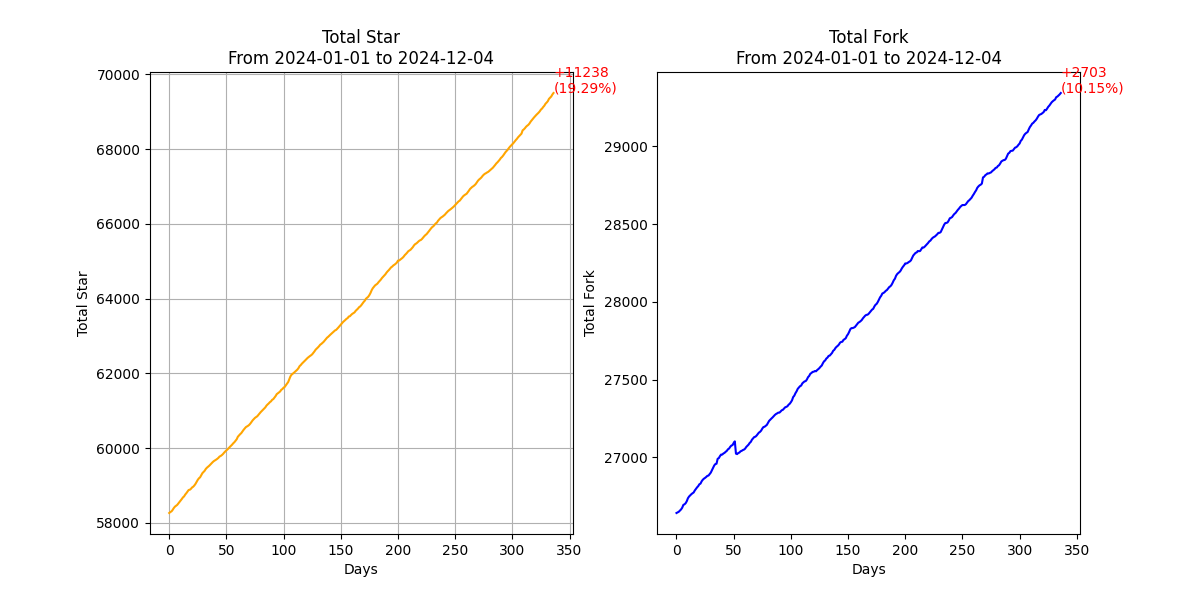
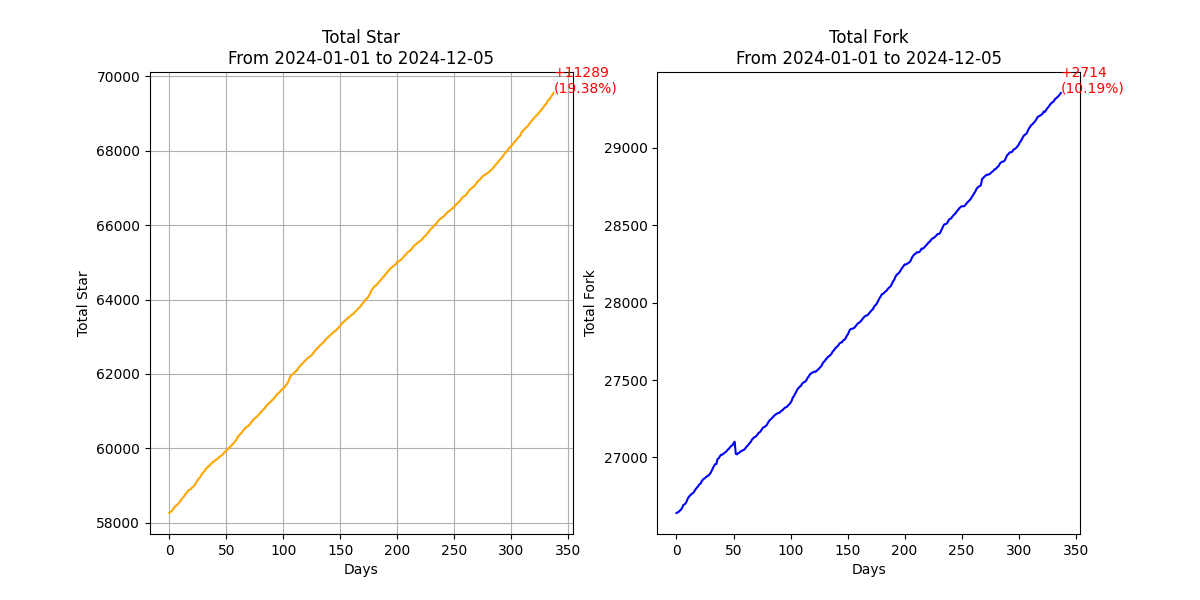
Update Espressif Systems Github Star Rank - 2024-12-05

diff --git a/rank_history/esp_rank_2024-12-04.md b/rank_history/esp_rank_2024-12-04.md
@@ -1,6 +1,6 @@
-# Espressif Systems Github Star Rank 2024-12-05
+# Espressif Systems Github Star Rank 2024-12-04
 
-## Total Star 🌟: 69605, Total Fork 🌳: 29365
+## Total Star 🌟: 69552, Total Fork 🌳: 29355
 
 [![Update Espressif Systems Github Star Rank](https://github.com/leeebo/espressif_star_counter/actions/workflows/update_rank.yml/badge.svg)](https://github.com/leeebo/espressif_star_counter/actions/workflows/update_rank.yml)
 
@@ -8,31 +8,31 @@
 
 | Repository | Stars | Forks | Description |
 |------------|-------|-------|-------------|
-| [esp-idf](https://github.com/espressif/esp-idf) | 13913 | 7332 | Espressif IoT Development Framework. Official development framework for Espressif SoCs. |
-| [arduino-esp32](https://github.com/espressif/arduino-esp32) | 13785 | 7442 | Arduino core for the ESP32 |
-| [esptool](https://github.com/espressif/esptool) | 5613 | 1387 | Espressif SoC serial bootloader utility |
-| [ESP8266_RTOS_SDK](https://github.com/espressif/ESP8266_RTOS_SDK) | 3349 | 1564 | Latest ESP8266 SDK based on FreeRTOS, esp-idf style. |
-| [esp-iot-solution](https://github.com/espressif/esp-iot-solution) | 2001 | 789 | Espressif IoT Library. IoT Device Drivers, Documentations and Solutions. |
-| [esp32-camera](https://github.com/espressif/esp32-camera) | 1953 | 648 | None |
-| [esp-who](https://github.com/espressif/esp-who) | 1712 | 469 | Face detection and recognition framework |
+| [esp-idf](https://github.com/espressif/esp-idf) | 13894 | 7328 | Espressif IoT Development Framework. Official development framework for Espressif SoCs. |
+| [arduino-esp32](https://github.com/espressif/arduino-esp32) | 13776 | 7441 | Arduino core for the ESP32 |
+| [esptool](https://github.com/espressif/esptool) | 5614 | 1387 | Espressif SoC serial bootloader utility |
+| [ESP8266_RTOS_SDK](https://github.com/espressif/ESP8266_RTOS_SDK) | 3348 | 1564 | Latest ESP8266 SDK based on FreeRTOS, esp-idf style. |
+| [esp-iot-solution](https://github.com/espressif/esp-iot-solution) | 1998 | 789 | Espressif IoT Library. IoT Device Drivers, Documentations and Solutions. |
+| [esp32-camera](https://github.com/espressif/esp32-camera) | 1952 | 648 | None |
+| [esp-who](https://github.com/espressif/esp-who) | 1708 | 469 | Face detection and recognition framework |
 | [esp-adf](https://github.com/espressif/esp-adf) | 1569 | 690 | Espressif Audio Development Framework |
-| [vscode-esp-idf-extension](https://github.com/espressif/vscode-esp-idf-extension) | 1083 | 307 | Visual Studio Code extension for ESP-IDF projects |
+| [vscode-esp-idf-extension](https://github.com/espressif/vscode-esp-idf-extension) | 1084 | 307 | Visual Studio Code extension for ESP-IDF projects |
 | [ESP8266_NONOS_SDK](https://github.com/espressif/ESP8266_NONOS_SDK) | 932 | 536 | ESP8266 nonOS SDK |
-| [esp-at](https://github.com/espressif/esp-at) | 920 | 835 | AT application for ESP32/ESP32-C2/ESP32-C3/ESP32-C6/ESP8266 |
+| [esp-at](https://github.com/espressif/esp-at) | 922 | 835 | AT application for ESP32/ESP32-C2/ESP32-C3/ESP32-C6/ESP8266 |
 | [esp-drone](https://github.com/espressif/esp-drone) | 841 | 243 | Mini Drone/Quadcopter Firmware for ESP32 and ESP32-S Series SoCs. |
 | [esp-box](https://github.com/espressif/esp-box) | 817 | 191 | The ESP-BOX is a new generation AIoT development platform released by Espressif Systems. |
-| [esp-mdf](https://github.com/espressif/esp-mdf) | 782 | 253 | Espressif Mesh Development Framework, limited maintain, recommend to use https://github.com/espressif/esp-mesh-lite |
+| [esp-mdf](https://github.com/espressif/esp-mdf) | 781 | 253 | Espressif Mesh Development Framework, limited maintain, recommend to use https://github.com/espressif/esp-mesh-lite |
 | [kicad-libraries](https://github.com/espressif/kicad-libraries) | 779 | 109 | KiCad libraries for Espressif SoCs, modules, and DevKits. |
 | [ESP8266_MP3_DECODER](https://github.com/espressif/ESP8266_MP3_DECODER) | 745 | 190 | A demo that should be run with ESP8266 Non-OS SDK |
-| [esp-csi](https://github.com/espressif/esp-csi) | 726 | 110 | Applications based on Wi-Fi CSI (Channel state information), such as indoor positioning, human detection |
+| [esp-csi](https://github.com/espressif/esp-csi) | 725 | 110 | Applications based on Wi-Fi CSI (Channel state information), such as indoor positioning, human detection |
 | [esp-hosted](https://github.com/espressif/esp-hosted) | 715 | 170 | Hosted Solution (Linux/MCU) with ESP32 (Wi-Fi + BT + BLE) |
-| [esp-matter](https://github.com/espressif/esp-matter) | 709 | 162 | Espressif's SDK for Matter |
+| [esp-matter](https://github.com/espressif/esp-matter) | 709 | 161 | Espressif's SDK for Matter |
 | [esp-apple-homekit-adk](https://github.com/espressif/esp-apple-homekit-adk) | 624 | 64 | This is a port for Apple's Open Source HomeKit ADK |
-| [esp-mqtt](https://github.com/espressif/esp-mqtt) | 617 | 258 | ESP32 mqtt component |
-| [esp-sr](https://github.com/espressif/esp-sr) | 594 | 107 | Speech recognition |
-| [esp-skainet](https://github.com/espressif/esp-skainet) | 593 | 135 | Espressif intelligent voice assistant |
+| [esp-mqtt](https://github.com/espressif/esp-mqtt) | 616 | 258 | ESP32 mqtt component |
+| [esp-sr](https://github.com/espressif/esp-sr) | 592 | 107 | Speech recognition |
+| [esp-skainet](https://github.com/espressif/esp-skainet) | 590 | 135 | Espressif intelligent voice assistant |
 | [esp-dl](https://github.com/espressif/esp-dl) | 582 | 123 | Espressif deep-learning library for AIoT applications |
-| [esp-homekit-sdk](https://github.com/espressif/esp-homekit-sdk) | 570 | 109 | None |
+| [esp-homekit-sdk](https://github.com/espressif/esp-homekit-sdk) | 569 | 109 | None |
 | [esp-now](https://github.com/espressif/esp-now) | 551 | 97 | A connectionless Wi-Fi communication protocol |
 | [esp32-nesemu](https://github.com/espressif/esp32-nesemu) | 551 | 173 | Proof-of-concept NES emulator for the ESP32 |
 | [esp-dsp](https://github.com/espressif/esp-dsp) | 490 | 92 | DSP library for ESP-IDF |
@@ -40,17 +40,17 @@
 | [esp-rainmaker](https://github.com/espressif/esp-rainmaker) | 470 | 154 | ESP RainMaker Agent for firmware development |
 | [rust-esp32-example](https://github.com/espressif/rust-esp32-example) | 448 | 36 | Example of Rust integration into an ESP-IDF project, for ESP32 series of chips |
 | [esp-tflite-micro](https://github.com/espressif/esp-tflite-micro) | 398 | 86 | TensorFlow Lite Micro for Espressif Chipsets |
-| [esp-serial-flasher](https://github.com/espressif/esp-serial-flasher) | 392 | 113 | Library for flashing Espressif SoCs from other MCUs. |
+| [esp-serial-flasher](https://github.com/espressif/esp-serial-flasher) | 391 | 113 | Library for flashing Espressif SoCs from other MCUs. |
 | [esp-dev-kits](https://github.com/espressif/esp-dev-kits) | 370 | 184 | Docs, Schematics, Factory Firmwares for ESP Development Kits |
 | [openocd-esp32](https://github.com/espressif/openocd-esp32) | 363 | 133 | OpenOCD branch with ESP32 JTAG support |
 | [esp-aliyun](https://github.com/espressif/esp-aliyun) | 341 | 151 | Aliyun Iotkit-embedded, support esp32 & esp8266. |
-| [esp-idf-template](https://github.com/espressif/esp-idf-template) | 335 | 201 | Template application for https://github.com/espressif/esp-idf |
+| [esp-idf-template](https://github.com/espressif/esp-idf-template) | 335 | 200 | Template application for https://github.com/espressif/esp-idf |
 | [idf-eclipse-plugin](https://github.com/espressif/idf-eclipse-plugin) | 315 | 121 | Espressif-IDE (ESP-IDF Eclipse Plugin) for ESP-IDF CMake based projects 5.x and above |
-| [esp-usb-bridge](https://github.com/espressif/esp-usb-bridge) | 302 | 34 | USB to UART&JTAG bridge, implemented on ESP32-S2 or ESP32-S3 |
-| [esp-va-sdk](https://github.com/espressif/esp-va-sdk) | 295 | 83 | Espressif's Voice Assistant SDK: Alexa, Google Voice Assistant, Google DialogFlow |
+| [esp-usb-bridge](https://github.com/espressif/esp-usb-bridge) | 301 | 34 | USB to UART&JTAG bridge, implemented on ESP32-S2 or ESP32-S3 |
+| [esp-va-sdk](https://github.com/espressif/esp-va-sdk) | 294 | 83 | Espressif's Voice Assistant SDK: Alexa, Google Voice Assistant, Google DialogFlow |
 | [esptool-js](https://github.com/espressif/esptool-js) | 292 | 109 | Javascript implementation of flasher tool for Espressif chips, running in web browser using WebSerial. |
-| [esp-aws-iot](https://github.com/espressif/esp-aws-iot) | 273 | 164 | AWS IoT SDK for ESP32 based chipsets |
-| [esp-bsp](https://github.com/espressif/esp-bsp) | 208 | 108 | Board support components for Espressif development boards |
+| [esp-aws-iot](https://github.com/espressif/esp-aws-iot) | 272 | 164 | AWS IoT SDK for ESP32 based chipsets |
+| [esp-bsp](https://github.com/espressif/esp-bsp) | 208 | 107 | Board support components for Espressif development boards |
 | [esp-idf-provisioning-android](https://github.com/espressif/esp-idf-provisioning-android) | 204 | 136 | Android Provisioning application for ESP-IDF Unified provisioning |
 | [esp32-doom](https://github.com/espressif/esp32-doom) | 200 | 39 | A proof-of-concept port of PrBoom to the ESP32. Needs psram hardware. |
 | [esp-protocols](https://github.com/espressif/esp-protocols) | 198 | 135 | Collection of ESP-IDF components related to networking protocols |
@@ -69,7 +69,7 @@
 | [esp-mesh-lite](https://github.com/espressif/esp-mesh-lite) | 135 | 24 | A lite version Wi-Fi Mesh, each node can access the network over the IP layer. |
 | [esp8266-rtos-sample-code](https://github.com/espressif/esp8266-rtos-sample-code) | 129 | 86 | None |
 | [esp-modbus](https://github.com/espressif/esp-modbus) | 118 | 55 | ESP-Modbus - the officially suppported library for Modbus protocol (serial RS485 + TCP over WiFi or Ethernet). |
-| [esp-thread-br](https://github.com/espressif/esp-thread-br) | 117 | 26 | Espressif Thread Border Router SDK |
+| [esp-thread-br](https://github.com/espressif/esp-thread-br) | 117 | 25 | Espressif Thread Border Router SDK |
 | [book-esp32c3-iot-projects](https://github.com/espressif/book-esp32c3-iot-projects) | 108 | 34 | 《ESP32-C3 物联网工程开发实战》配套代码 |
 | [esp-insights](https://github.com/espressif/esp-insights) | 105 | 29 | ESP Insights: A remote diagnostics/observability framework for connected devices |
 | [esp-rainmaker-android](https://github.com/espressif/esp-rainmaker-android) | 105 | 61 | ESP RainMaker Android app sources |
@@ -79,13 +79,13 @@
 | [esp-lwip](https://github.com/espressif/esp-lwip) | 86 | 130 | Fork of lwIP (https://savannah.nongnu.org/projects/lwip/) with ESP-IDF specific patches |
 | [esp-idf-cxx](https://github.com/espressif/esp-idf-cxx) | 80 | 14 | C++ wrapper classes for ESP-IDF components. |
 | [esp-ali-smartliving](https://github.com/espressif/esp-ali-smartliving) | 79 | 34 | 阿里云生活物联网平台 & 天猫精灵 IoT 开放平台 |
-| [esp-wasmachine](https://github.com/espressif/esp-wasmachine) | 79 | 6 | The Machine which can run WASM applications. |
+| [esp-wasmachine](https://github.com/espressif/esp-wasmachine) | 78 | 6 | The Machine which can run WASM applications. |
 | [esp32-bt-lib](https://github.com/espressif/esp32-bt-lib) | 75 | 43 | ESP32 Bluetooth stack (below HCI layer) precompiled libraries |
 | [esp-qcloud](https://github.com/espressif/esp-qcloud) | 71 | 36 | 基于 ESP-IDF 原生开发接入腾讯 IoT Explorer，支持 ESP32/ESP32S2，快速实现腾讯连连控制。 |
 | [esp32c3-direct-boot-example](https://github.com/espressif/esp32c3-direct-boot-example) | 69 | 18 | Example of ESP32-C3 (rev. 3 and later) "direct boot" feature. |
 | [esp8266-nonos-sample-code](https://github.com/espressif/esp8266-nonos-sample-code) | 66 | 41 | None |
 | [esp-adf-libs](https://github.com/espressif/esp-adf-libs) | 61 | 41 | None |
-| [esp-brookesia](https://github.com/espressif/esp-brookesia) | 60 | 10 | ESP-Brookesia is a human-machine interaction development framework designed for AIoT devices. |
+| [esp-brookesia](https://github.com/espressif/esp-brookesia) | 59 | 10 | ESP-Brookesia is a human-machine interaction development framework designed for AIoT devices. |
 | [esp-moonlight](https://github.com/espressif/esp-moonlight) | 59 | 35 | None |
 | [freertos-gdb](https://github.com/espressif/freertos-gdb) | 58 | 9 | Python module for operating with freeRTOS kernel objects in GDB |
 | [svd](https://github.com/espressif/svd) | 58 | 2 | SVD files for Espressif devices |
@@ -95,13 +95,13 @@
 | [binutils-esp32ulp](https://github.com/espressif/binutils-esp32ulp) | 46 | 18 | Binutils fork with support for the ESP32 ULP co-processor |
 | [idf-component-manager](https://github.com/espressif/idf-component-manager) | 46 | 16 | Tool for installing ESP-IDF components |
 | [esp-launchpad](https://github.com/espressif/esp-launchpad) | 44 | 15 | Configurable Browser-based Image Flasher |
-| [esp32-c3-book-en](https://github.com/espressif/esp32-c3-book-en) | 41 | 5 | Read the book here: |
 | [esp-wolfssl](https://github.com/espressif/esp-wolfssl) | 40 | 14 | WolfSSL port for ESP-IDF & ESP8266_RTOS_SDK |
 | [esp-privilege-separation](https://github.com/espressif/esp-privilege-separation) | 39 | 4 | Espressif Privilege Separation Framework |
+| [esp32-c3-book-en](https://github.com/espressif/esp32-c3-book-en) | 39 | 5 | Read the book here: |
 | [esp-faq](https://github.com/espressif/esp-faq) | 36 | 11 | None |
 | [esp-joylink](https://github.com/espressif/esp-joylink) | 36 | 23 | Demo project for JD joylink, support esp32 & esp8266. |
-| [esp-wdf](https://github.com/espressif/esp-wdf) | 36 | 1 | Espressif WASM Development Framework. |
 | [ESP8266_RTOS_ALINK_DEMO](https://github.com/espressif/ESP8266_RTOS_ALINK_DEMO) | 36 | 26 | Alink 1.0 早期版本 |
+| [esp-wdf](https://github.com/espressif/esp-wdf) | 35 | 1 | Espressif WASM Development Framework. |
 | [esp31-smsemu](https://github.com/espressif/esp31-smsemu) | 34 | 16 | None |
 | [idf-env](https://github.com/espressif/idf-env) | 33 | 5 | idf-env tool helps set up and manage ESP-IDF installations |
 | [esp8266-alink-v1.0](https://github.com/espressif/esp8266-alink-v1.0) | 32 | 27 | alink v1.0 |
@@ -144,10 +144,10 @@
 | [esp-toolchain-docs](https://github.com/espressif/esp-toolchain-docs) | 12 | 5 | Repository with documentation related to toolchains and debuggers maintained by Espressif |
 | [esp32-alink](https://github.com/espressif/esp32-alink) | 12 | 13 | This is a porting of alink in esp32, it's just a  component, you can use it as submodule in your project. Please refer to esp32-alink-demo. |
 | [gh-esp-test-template](https://github.com/espressif/gh-esp-test-template) | 11 | 11 | ESP Project Testing Template (CI Project Template/Demo) |
-| [idf-python-wheels](https://github.com/espressif/idf-python-wheels) | 11 | 9 | Build Python Wheels for Offline and Online installation of ESP-IDF. Online installation is using Espressif's PyPI |
 | [conventional-precommit-linter](https://github.com/espressif/conventional-precommit-linter) | 10 | 0 | Pre-commit hook script for linting conventional commit style |
 | [esp-video-components](https://github.com/espressif/esp-video-components) | 10 | 1 | Collections of components to be used for camera related functionalities. |
 | [esp8266-dual-cloud](https://github.com/espressif/esp8266-dual-cloud) | 10 | 12 | esp8266 dual cloud support demo, now support alink + joylink. |
+| [idf-python-wheels](https://github.com/espressif/idf-python-wheels) | 10 | 9 | Build Python Wheels for Offline and Online installation of ESP-IDF. Online installation is using Espressif's PyPI |
 | [xtensa-overlays](https://github.com/espressif/xtensa-overlays) | 10 | 8 | Configuration overlays of Xtensa cores used by Espressif. These overlays are applied when building GCC, Binutils, GDB, Newlib. |
 | [check-copyright](https://github.com/espressif/check-copyright) | 9 | 6 | Pre-commit/gitlab-ci script for checking and adding license SPDX headers |
 | [clang-tidy-runner](https://github.com/espressif/clang-tidy-runner) | 9 | 6 | None |
@@ -187,7 +187,6 @@
 | [esp-flash-drivers](https://github.com/espressif/esp-flash-drivers) | 2 | 2 | Project to hold 3rd party flash drivers |
 | [esp-idf-panic-decoder](https://github.com/espressif/esp-idf-panic-decoder) | 2 | 1 | None |
 | [esp-rainmaker-custom-development](https://github.com/espressif/esp-rainmaker-custom-development) | 2 | 0 | ESP RainMaker Custom Development |
-| [esptool-legacy-flasher-stub](https://github.com/espressif/esptool-legacy-flasher-stub) | 2 | 5 | None |
 | [iperf-cmd](https://github.com/espressif/iperf-cmd) | 2 | 0 | None |
 | [sync-jira-actions](https://github.com/espressif/sync-jira-actions) | 2 | 3 | GitHub Actions for syncing the project with the Espressif Jira system |
 | [vscode-esp-idf-web-extension](https://github.com/espressif/vscode-esp-idf-web-extension) | 2 | 2 | ESP-IDF Web Extension for Visual Studio Code |
@@ -200,6 +199,7 @@
 | [esp-prog-2](https://github.com/espressif/esp-prog-2) | 1 | 0 | None |
 | [esp-rainmaker-oauth2-integration](https://github.com/espressif/esp-rainmaker-oauth2-integration) | 1 | 0 | ESP RainMaker OAuth2 Integration |
 | [esp-wifi-remote](https://github.com/espressif/esp-wifi-remote) | 1 | 1 | Allows WiFi-enabled ESP capabilities on remote targets (without native WiFi) using designated transports |
+| [esptool-legacy-flasher-stub](https://github.com/espressif/esptool-legacy-flasher-stub) | 1 | 4 | None |
 | [esp_jrnl](https://github.com/espressif/esp_jrnl) | 1 | 0 | ESP-IDF file-system journaling component |
 | [github-esp-dockerfiles](https://github.com/espressif/github-esp-dockerfiles) | 1 | 4 | Dockerfiles for Espressif Github self-hosted runners |
 | [shared-github-dangerjs](https://github.com/espressif/shared-github-dangerjs) | 1 | 0 | This is a reusable GitHub Action CI DangerJS workflow for Espressif GitHub projects. |
